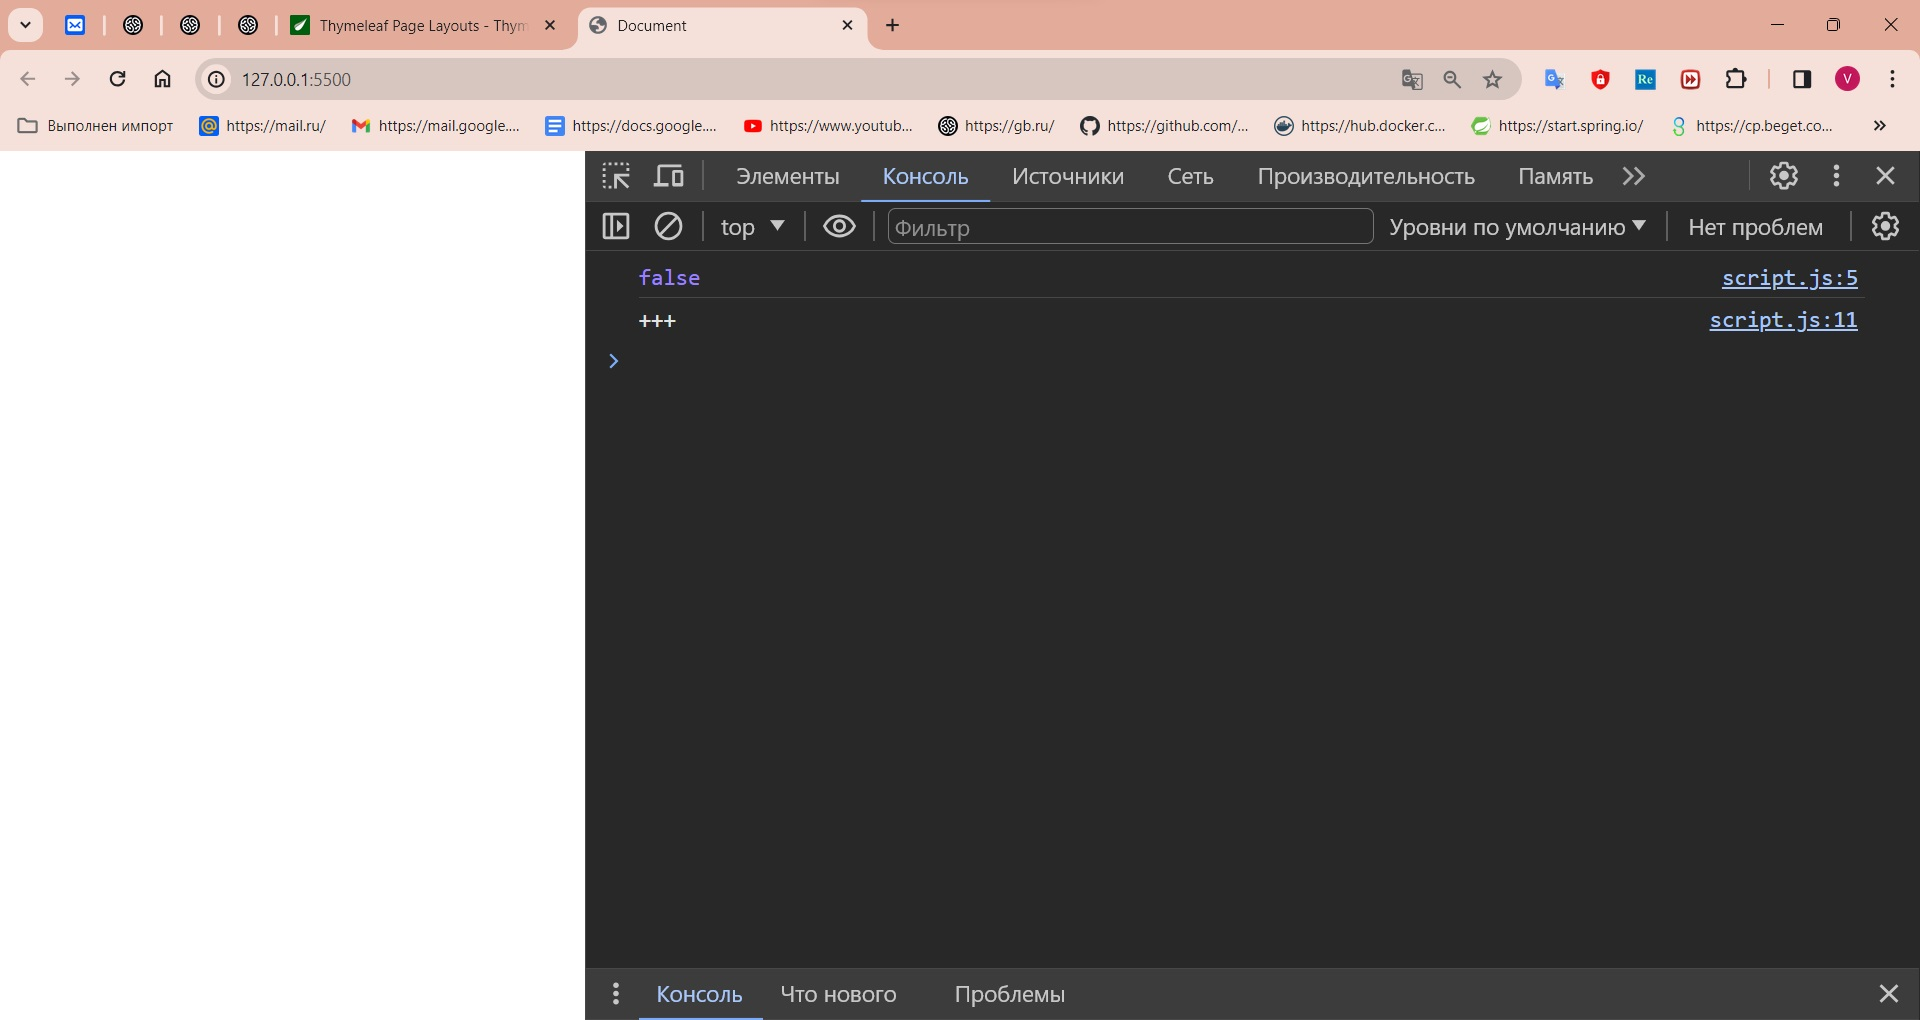
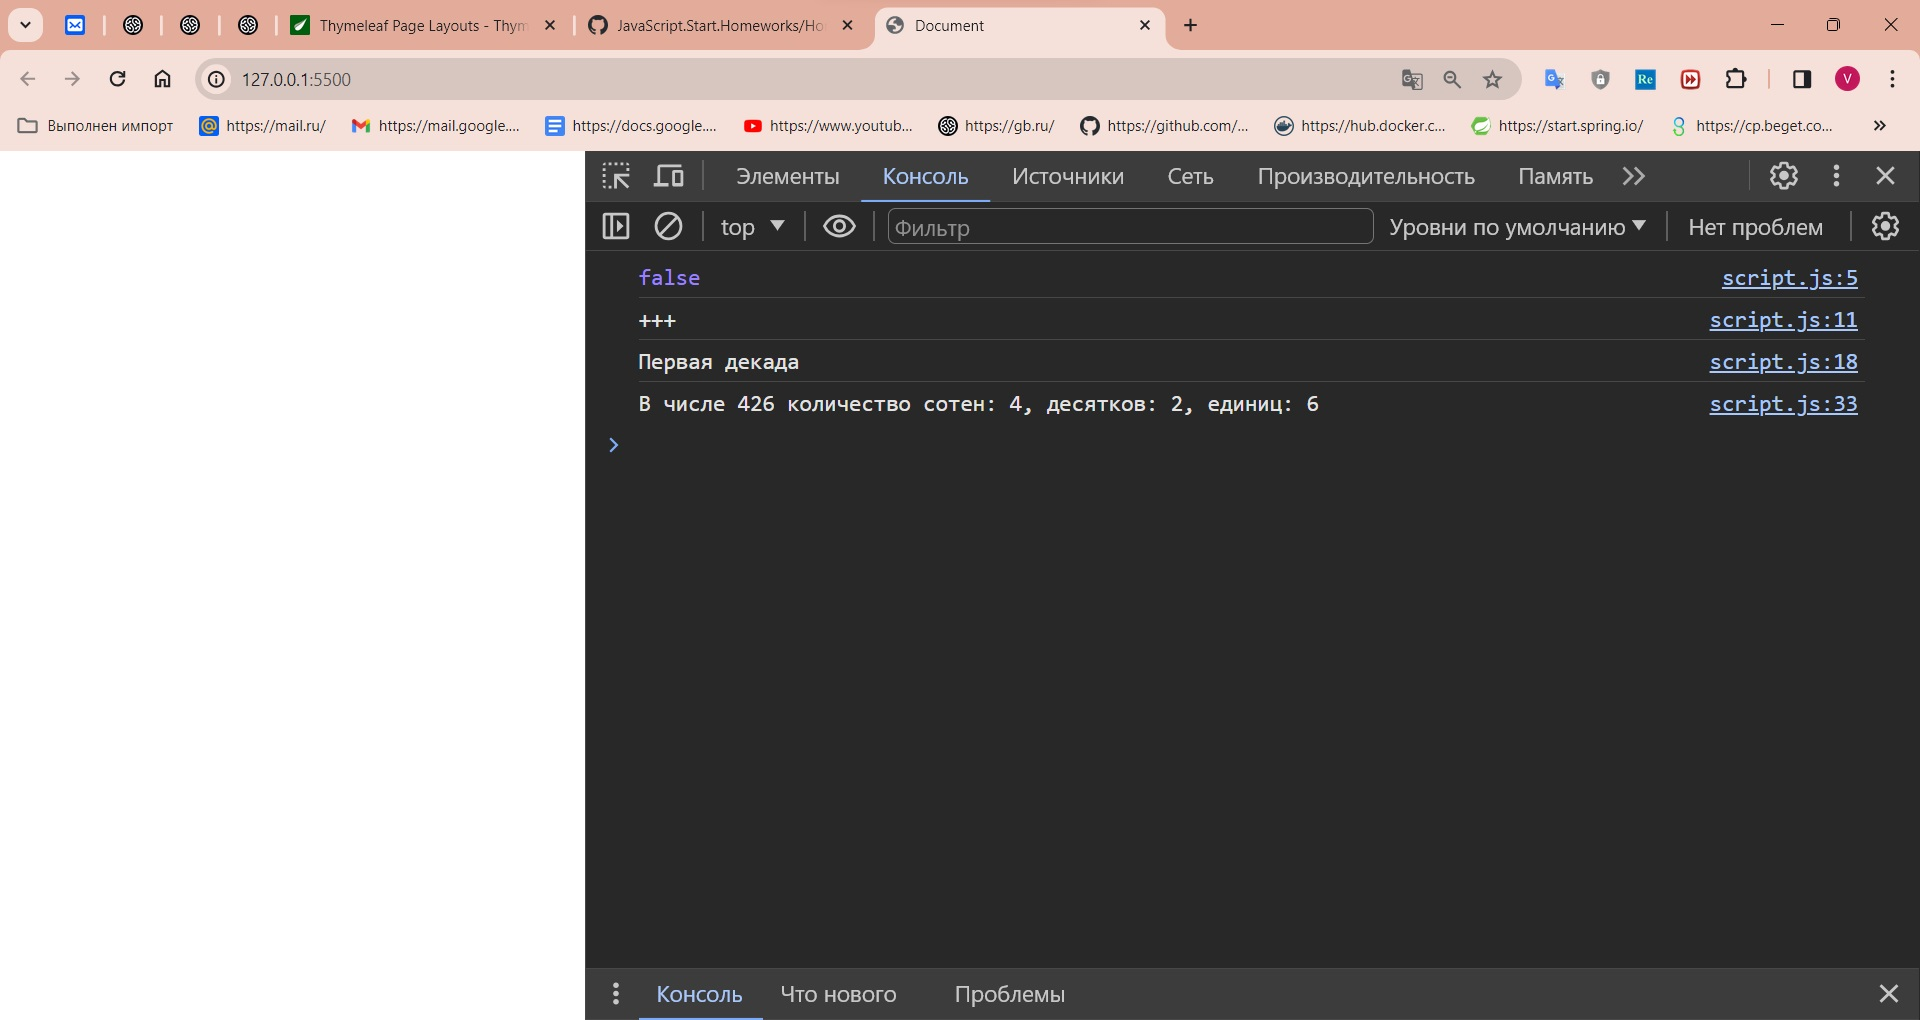
hw02

diff --git a/Homework02/script.js b/Homework02/script.js
@@ -9,3 +9,25 @@ console.log(num1 <= 1 && num2 >= 3);
 let test = true;
 
 console.log(test === true ? '+++' : '---');
+
+
+// Task №3
+let day = Number(prompt("Введите день месяца (от 1 до 31)"));;
+
+if (day > 0 && day <= 10) {
+    console.log("Первая декада");
+} else if (day <= 20) {
+    console.log("Вторая декада");
+} else if (day <= 31) {
+    console.log("Третья декада");
+} else {
+    console.log("Ерунду ввёл");
+}
+
+
+// Task №4
+let number = Number(prompt("Enter the number (0 - 999)"));
+let hundreds = parseInt(number / 100);
+let tens = parseInt(number % 100 / 10);
+let ones = parseInt(number % 100 % 10);
+console.log(`В числе ${number} количество сотен: ${hundreds}, десятков: ${tens}, единиц: ${ones}`);
